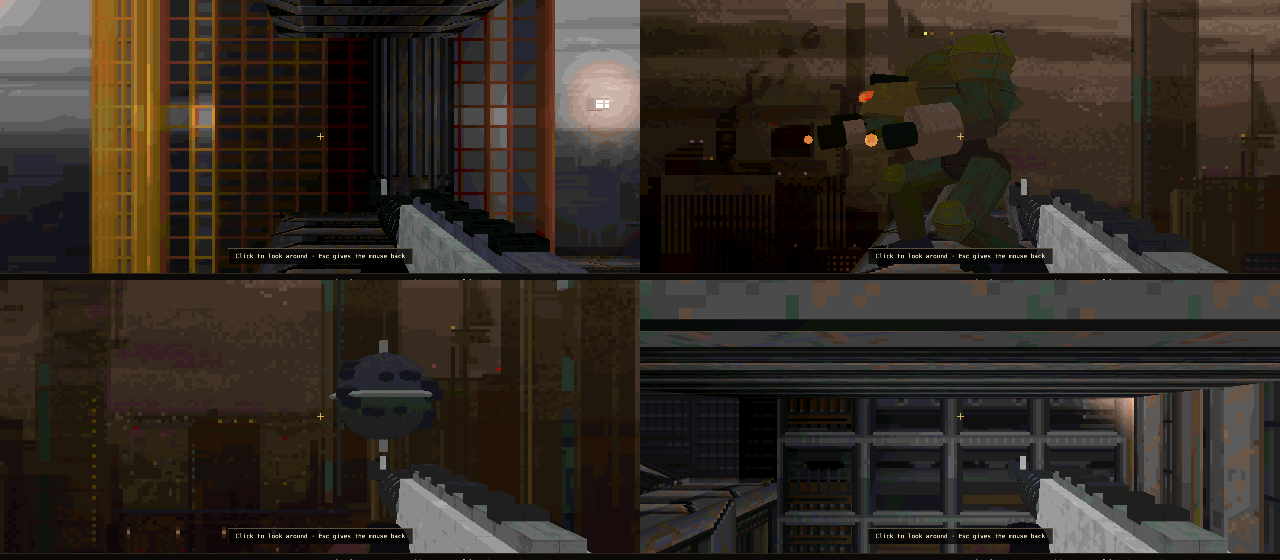
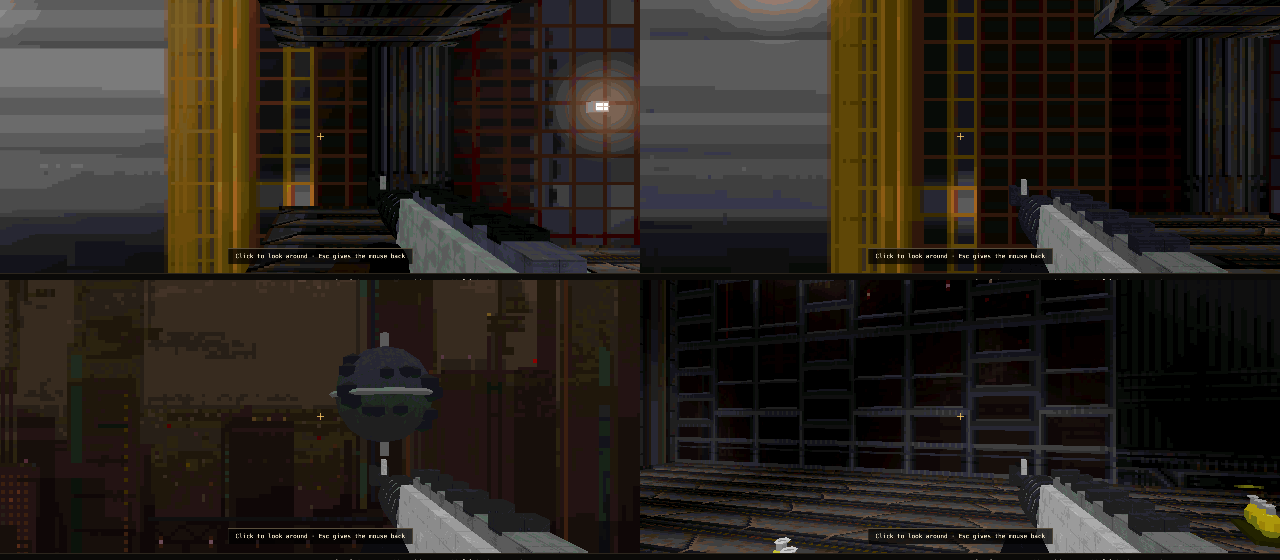
Windows: the city outside is far away, each window anchored on the art Abuse paints behind it

diff --git a/engine/render.js b/engine/render.js
@@ -22,6 +22,7 @@ import { metalSkin, organicSkin, muscleSkin, DETAIL_SIZE } from './detail.js';
 const BLOCK = 1024; // lightmap atlas size, in luxels
 const MAX_LIGHTS = 256;
 const MAX_DYN = 16;
+const BACKDROP_FAR = 10; // the city outside the windows is at least this many lane half-depths behind the middle of the hall
 
 // Abuse's light at level pixel p (lighting.js LightMap.update), 0-63.
 const ABUSE_LIGHT = `
@@ -83,26 +84,33 @@ uniform sampler2D tex; uniform sampler2D lightmap; uniform float brightness; uni
 // 0 elsewhere; bgFace: this face shows the background everywhere (no foreground there), else only where its
 // foreground tile is see-through
 uniform int win; uniform int bgFace; uniform int bgOn;
-uniform highp usampler2D bgMap; uniform sampler2D bgAtlas;
+uniform highp usampler2D bgMap; uniform sampler2D bgAtlas; uniform highp sampler2D bgCells;
 uniform vec4 bgInfo; // map width, height (tiles), tile width, height (pixels)
-uniform vec4 bgRate; // x rate, y rate, the lane's half depth, atlas columns
-uniform vec2 bgShift; // where the 2D view's camera puts the background: (view / 2) * (1 - rate)
-uniform vec2 bgView; uniform vec2 bgWorld; // the 2D view's size, and the foreground's (how far its camera goes), in pixels
+uniform vec4 bgRate; // how far the backdrop is, across and up (times the lane's half depth), the lane's half depth, atlas columns
+uniform vec4 bgCell; // foreground tile width, height; the map's width, height (cells)
+uniform vec2 bgView; // the 2D view's size
 ${ABUSE_LIGHT}
-// What the background shows through point P of a lane wall. Abuse draws it at camera * rate: in 3D that is a
-// plane behind the wall at lane / rate (x and y each their own), seen along the ray from the eye. From the middle
-// of the hall this is exactly the 2D parallax; walking past a window, the city behind it slides by slower.
+// What the background shows through point P of a lane wall (client/backdrop.js has the windows). Each window
+// shows the picture Abuse shows behind it, on a plane far behind the wall (bgRate.xy lane depths from the
+// middle of the hall), seen along the ray from the eye: from the middle, in front of the window, it is Abuse's
+// picture; walking past, it barely slides, as a far city does. The view stays in the art Abuse ever shows
+// behind that window: mirrored at its sides, and its top and bottom rows drawn on (sky and ground run on).
+vec2 mirrored(vec2 v, vec2 lo, vec2 hi) {
+  float n = max(hi.x - lo.x, 1.0), m = mod(v.x - lo.x, 2.0 * n);
+  return vec2(lo.x + min(m, 2.0 * n - m - 0.5), clamp(v.y, lo.y, hi.y - 0.5));
+}
 vec3 backdrop(vec3 P) {
-  float wall = float(win) * bgRate.z, dy = P.y - eyePos.y;
-  float tx = (wall / bgRate.x - eyePos.y) / dy, ty = (wall / bgRate.y - eyePos.y) / dy;
-  vec2 q = vec2(eyePos.x + (P.x - eyePos.x) * tx, eyePos.z + (P.z - eyePos.z) * ty);
-  vec2 px = vec2(q.x * 0.5 * bgRate.x, -q.y * 0.5 * bgRate.y) + bgShift;
-  // Abuse paints only what its camera can show behind each window (on the city levels the rest of the map is
-  // black). A window seen at a slant, or from close to, would look further, so it is held to what the 2D game
-  // shows there from any camera that has it on screen: px = cam * rate + (p - cam), for cam from lo to hi.
   vec2 p = vec2(P.x, -P.z) * 0.5;
-  vec2 lo = max(vec2(0.0), p - bgView), hi = max(lo, min(p, bgWorld - bgView));
-  px = clamp(px, hi * bgRate.xy + p - hi, lo * bgRate.xy + p - lo);
+  ivec2 c = clamp(ivec2(floor(p / bgCell.xy)), ivec2(0), ivec2(bgCell.zw) - 1);
+  vec4 anchor = texelFetch(bgCells, ivec2(c.x * 3, c.y), 0), box = texelFetch(bgCells, ivec2(c.x * 3 + 1, c.y), 0);
+  vec4 ext = texelFetch(bgCells, ivec2(c.x * 3 + 2, c.y), 0);
+  // the eye, as far as the window goes (from further along the hall it would look past the art), and not
+  // closer to the wall than half the lane (close to, a window would show the whole city)
+  vec2 e = clamp(vec2(eyePos.x, -eyePos.z) * 0.5, ext.xy - 0.5 * bgView, ext.zw + 0.5 * bgView);
+  float lane = bgRate.z, d = max(float(win) * (float(win) * lane - eyePos.y), 0.5 * lane);
+  vec2 t = (d + (bgRate.xy - 1.0) * lane) / d;
+  vec2 q = e + (p - e) * t;
+  vec2 px = mirrored(anchor.zw + (q - anchor.xy) / bgRate.xy, box.xy, box.zw);
   vec2 tile = bgInfo.zw;
   ivec2 cell = ivec2(mod(floor(px / tile), bgInfo.xy)); // the map repeats, as Abuse's does
   int slot = int(texelFetch(bgMap, cell, 0).r), cols = int(bgRate.w);
@@ -113,7 +121,15 @@ out vec4 color;
 void main() {
   vec4 texel = texture(tex, vUv);
   vec3 albedo = texel.rgb;
-  if (win != 0 && bgOn == 1 && (bgFace == 1 || texel.a < 0.5)) albedo = backdrop(vPos);
+  if (win != 0 && bgOn == 1 && (bgFace == 1 || texel.a < 0.5)) {
+    // far outside: lit as Abuse lights its background (its own lamps), not by the hall's flashes, and hazed
+    vec3 c = backdrop(vPos);
+    if (mode == 1) c = abuseLit(c, vec2(vPos.x / 2.0, -vPos.z / 2.0)); else c *= 0.85;
+    c = mix(c * brightness, haze.rgb, 0.22);
+    c.r = min(1.0, c.r + red);
+    color = vec4(c, 1.0);
+    return;
+  }
   vec3 c = albedo;
   if (mode == 0) c *= texture(lightmap, vLuv).r;
   else if (mode == 1) c = abuseLit(c, vec2(vPos.x / 2.0, -vPos.z / 2.0));
@@ -227,7 +243,7 @@ export function paletteLut(pal) {
 export class Renderer {
   constructor(gl) {
     this.gl = gl;
-    this.world = program(gl, WORLD_VS, WORLD_FS, ['mvp', 'tex', 'lightmap', 'brightness', 'mode', 'red', 'lights', 'nLights', 'ambient', 'win', 'bgFace', 'bgOn', 'bgMap', 'bgAtlas', 'bgInfo', 'bgRate', 'bgShift', 'bgView', 'bgWorld']);
+    this.world = program(gl, WORLD_VS, WORLD_FS, ['mvp', 'tex', 'lightmap', 'brightness', 'mode', 'red', 'lights', 'nLights', 'ambient', 'win', 'bgFace', 'bgOn', 'bgMap', 'bgAtlas', 'bgInfo', 'bgRate', 'bgCells', 'bgCell', 'bgView']);
     const atmo = ['dynPos', 'dynCol', 'nDyn', 'eyePos', 'haze'];
     this.world.u = { ...this.world.u, ...uniforms(gl, this.world.prog, atmo) };
     this.model = program(gl, MODEL_VS, MODEL_FS, ['mvp', 'basis', 'offset', 'brightness', 'mode', 'bright', 'red', 'lights', 'nLights', 'ambient', 'glow', 'glowAmt', 'skin', 'skin2', 'skin3', 'skinKind', 'skinAmt', 'skinScale', ...atmo]);
@@ -433,9 +449,9 @@ export class Renderer {
 
   // The level's background (Abuse's parallax layer), seen through the windows of the lane walls:
   // { w, h, map (tile numbers, w x h), tile (n -> {w, h, pix} in the palette), rate: {xmul, xdiv, ymul, ydiv}, view: [w, h],
-  //   world: the foreground's size in pixels [w, h] (how far the 2D camera goes) }
+  //   cells: client/backdrop.js windowCells (where each window looks out) }
   setBackdrop(bg) {
-    if (this.backdrop) { this.gl.deleteTexture(this.backdrop.map); this.gl.deleteTexture(this.backdrop.atlas); }
+    if (this.backdrop) { this.gl.deleteTexture(this.backdrop.map); this.gl.deleteTexture(this.backdrop.atlas); this.gl.deleteTexture(this.backdrop.cells); }
     this.backdrop = bg && bg.w && bg.h ? this.makeBackdrop(bg) : null;
   }
   makeBackdrop(bg) {
@@ -456,11 +472,14 @@ export class Renderer {
     gl.pixelStorei(gl.UNPACK_ALIGNMENT, 1);
     const map = make(() => gl.texImage2D(gl.TEXTURE_2D, 0, gl.R16UI, bg.w, bg.h, 0, gl.RED_INTEGER, gl.UNSIGNED_SHORT, Uint16Array.from(bg.map, (n) => slot.get(n))));
     const atl = make(() => gl.texImage2D(gl.TEXTURE_2D, 0, gl.RGBA, W, rows * th, 0, gl.RGBA, gl.UNSIGNED_BYTE, atlas));
-    const rx = bg.rate.xmul / (bg.rate.xdiv || 1), ry = bg.rate.ymul / (bg.rate.ydiv || 1);
+    const cl = bg.cells || { w: 3, h: 1, data: new Float32Array(12), tile: [1, 1] };
+    const cells = make(() => gl.texImage2D(gl.TEXTURE_2D, 0, gl.RGBA32F, cl.w, cl.h, 0, gl.RGBA, gl.FLOAT, cl.data));
+    // how far behind the hall the city is, in lane depths: Abuse's own depth (1 / rate), and never nearer than
+    // BACKDROP_FAR (at Abuse's 5/8, and 1:1 up and down, it sat just behind the glass)
+    const rx = bg.rate.xmul / (bg.rate.xdiv || 1), ry = bg.rate.ymul / (bg.rate.ydiv || 1), far = (r) => Math.max(BACKDROP_FAR, 1 / Math.max(0.01, r));
     return {
-      map, atlas: atl, info: [bg.w, bg.h, tw, th], rate: [Math.max(0.05, rx), Math.max(0.05, ry), this.lane, cols],
-      shift: [(bg.view[0] / 2) * (1 - rx), (bg.view[1] / 2) * (1 - ry)],
-      view: bg.view, world: bg.world || [1e6, 1e6],
+      map, atlas: atl, cells, info: [bg.w, bg.h, tw, th], rate: [far(rx), far(ry), this.lane, cols],
+      cell: [cl.tile[0], cl.tile[1], cl.w / 3, cl.h], view: bg.view,
     };
   }
 
@@ -574,11 +593,12 @@ export class Renderer {
     this.backdropStandIn ??= this.makeBackdrop({ w: 1, h: 1, map: [0], tile: () => ({ w: 1, h: 1, pix: [0] }), rate: { xmul: 1, xdiv: 1, ymul: 1, ydiv: 1 }, view: [0, 0] });
     const bd = this.backdrop || this.backdropStandIn;
     gl.uniform1i(this.world.u.bgOn, this.backdrop ? 1 : 0);
-    gl.uniform1i(this.world.u.bgMap, 6); gl.uniform1i(this.world.u.bgAtlas, 7);
+    gl.uniform1i(this.world.u.bgMap, 6); gl.uniform1i(this.world.u.bgAtlas, 7); gl.uniform1i(this.world.u.bgCells, 8);
     gl.activeTexture(gl.TEXTURE6); gl.bindTexture(gl.TEXTURE_2D, bd.map);
     gl.activeTexture(gl.TEXTURE7); gl.bindTexture(gl.TEXTURE_2D, bd.atlas);
+    gl.activeTexture(gl.TEXTURE8); gl.bindTexture(gl.TEXTURE_2D, bd.cells);
     gl.activeTexture(gl.TEXTURE0);
-    gl.uniform4fv(this.world.u.bgInfo, bd.info); gl.uniform4fv(this.world.u.bgRate, bd.rate); gl.uniform2fv(this.world.u.bgShift, bd.shift); gl.uniform2fv(this.world.u.bgView, bd.view); gl.uniform2fv(this.world.u.bgWorld, bd.world);
+    gl.uniform4fv(this.world.u.bgInfo, bd.info); gl.uniform4fv(this.world.u.bgRate, bd.rate); gl.uniform4fv(this.world.u.bgCell, bd.cell); gl.uniform2fv(this.world.u.bgView, bd.view);
     gl.bindVertexArray(this.worldVao);
     for (const g of world ? this.groups : []) {
       if ((g.kind === 'front' && !front) || (g.kind === 'caps' && !caps)) continue;

diff --git a/client/backdrop.js b/client/backdrop.js
@@ -1,0 +1,99 @@
+// Where each window looks out (presentation only).
+//
+// Abuse paints its background only where its camera shows it behind a window: on many levels small patches
+// shaped to the windows, the rest of the map black. Scrolled at the level's rate (often 5/8 across and 1:1 up
+// and down) that background sits just behind the wall; in 3D it read as painted on the glass. So each window
+// is given a far backdrop of its own: the see-through cells that show art are grouped into windows (cells within REACH of each other),
+// and each window is anchored where Abuse shows it, at its centre. The renderer puts that picture on a plane far
+// behind the wall, seen along the ray from the eye, and keeps the view inside the art Abuse ever shows behind
+// that window (mirrored at its edges).
+//
+// Per foreground cell, three RGBA float texels in a row (cell x * 3 + k):
+//   0: the window's centre in 2D pixels (x, y), and the background pixel Abuse shows there (x, y)
+//   1: the box of background pixels Abuse ever shows behind the window, out to where its art ends: x0, y0, x1, y1
+//   2: the window's extent in 2D pixels: x0, y0, x1, y1
+const REACH = 3; // cells
+
+export function windowCells({ fgW, fgH, fgmap, bgW, bgH, bgmap, rate, tile, back, fore, palette, view = [320, 200] }) {
+  const [tw, th] = tile, [bw, bh] = back.size, rx = rate.xmul / (rate.xdiv || 1), ry = rate.ymul / (rate.ydiv || 1);
+  const world = [fgW * tw, fgH * th], r = [rx, ry];
+  const cam = (p, k) => Math.max(0, Math.min(p - view[k] / 2, world[k] - view[k]));
+  const shown = (p, k) => { const c = cam(p, k); return r[k] * c + (p - c); }; // what Abuse shows behind 2D pixel p
+  const bgPix = (x, y) => {
+    x = Math.floor(x); y = Math.floor(y);
+    const t = back.tile(bgmap[((Math.floor(y / bh) % bgH + bgH) % bgH) * bgW + ((Math.floor(x / bw) % bgW) + bgW) % bgW]);
+    if (!t) return 0;
+    const i = t.pix[(((y % bh) + bh) % bh) * t.w + (((x % bw) + bw) % bw)];
+    return palette[i * 4] + palette[i * 4 + 1] + palette[i * 4 + 2];
+  };
+  // see-through cells: no foreground, or a foreground tile with see-through pixels
+  const clear = new Map();
+  const seeThrough = (n) => {
+    if (!clear.has(n)) { const t = fore(n); clear.set(n, !t || t.pix.some((v) => v === 0)); }
+    return clear.get(n);
+  };
+  const N = fgW * fgH, win = new Uint8Array(N);
+  for (let y = 0; y < fgH; y++) for (let x = 0; x < fgW; x++) {
+    const i = y * fgW + x;
+    if (!seeThrough(fgmap[i])) continue;
+    let art = 0; // does Abuse show anything but black behind it?
+    for (let sy = 0; sy < 3; sy++) for (let sx = 0; sx < 3; sx++) {
+      const px = x * tw + (sx + 0.5) * tw / 3, py = y * th + (sy + 0.5) * th / 3;
+      if (bgPix(shown(px, 0), shown(py, 1)) > 30) art++;
+    }
+    win[i] = art ? 1 : 0;
+  }
+  // the box of background Abuse ever shows behind a cell: every camera that has it on screen
+  const range = (a0, a1, k) => {
+    const lo = Math.max(0, Math.min(a0 - view[k], world[k] - view[k])), hi = Math.max(lo, Math.min(a1, world[k] - view[k]));
+    return [r[k] * hi + a0 - hi, r[k] * lo + a1 - lo];
+  };
+  // the art often goes on past what the camera shows: take the box out to where it turns black
+  const artShare = (x0, y0, x1, y1) => {
+    let n = 0, a = 0;
+    for (let y = y0; y < y1; y += 3) for (let x = x0; x < x1; x += 3) { n++; if (bgPix(x, y) > 30) a++; }
+    return n ? a / n : 0;
+  };
+  const grow = (b) => {
+    const S = 6, LIMIT = 400;
+    for (let k = 0; k < LIMIT && artShare(b[0] - S, b[1], b[0], b[3]) > 0.9; k += S) b[0] -= S;
+    for (let k = 0; k < LIMIT && artShare(b[2], b[1], b[2] + S, b[3]) > 0.9; k += S) b[2] += S;
+    for (let k = 0; k < LIMIT && artShare(b[0], b[1] - S, b[2], b[1]) > 0.9; k += S) b[1] -= S;
+    for (let k = 0; k < LIMIT && artShare(b[0], b[3], b[2], b[3] + S) > 0.9; k += S) b[3] += S;
+  };
+  const out = new Float32Array(fgW * 3 * fgH * 4);
+  const put = (i, ext, box) => {
+    const x = i % fgW, y = Math.floor(i / fgW), o = (y * fgW * 3 + x * 3) * 4;
+    const cx = (ext[0] + ext[2]) / 2, cy = (ext[1] + ext[3]) / 2;
+    out.set([cx, cy, shown(cx, 0), shown(cy, 1)], o);
+    out.set(box, o + 4);
+    out.set(ext, o + 8);
+  };
+  const comp = new Int32Array(N).fill(-1);
+  for (let s = 0; s < N; s++) {
+    const x0 = s % fgW, y0 = Math.floor(s / fgW);
+    if (!win[s]) { // not a window onto art: its own cell
+      const ext = [x0 * tw, y0 * th, (x0 + 1) * tw, (y0 + 1) * th], [a, b] = range(ext[0], ext[2], 0), [c, d] = range(ext[1], ext[3], 1);
+      put(s, ext, [a, c, b, d]);
+      continue;
+    }
+    if (comp[s] >= 0) continue;
+    const cells = [s], ext = [Infinity, Infinity, -Infinity, -Infinity], box = [Infinity, Infinity, -Infinity, -Infinity];
+    comp[s] = s;
+    for (let k = 0; k < cells.length; k++) {
+      const i = cells[k], x = i % fgW, y = Math.floor(i / fgW);
+      ext[0] = Math.min(ext[0], x * tw); ext[1] = Math.min(ext[1], y * th); ext[2] = Math.max(ext[2], (x + 1) * tw); ext[3] = Math.max(ext[3], (y + 1) * th);
+      const [a, b] = range(x * tw, (x + 1) * tw, 0), [c, d] = range(y * th, (y + 1) * th, 1);
+      box[0] = Math.min(box[0], a); box[1] = Math.min(box[1], c); box[2] = Math.max(box[2], b); box[3] = Math.max(box[3], d);
+      // panes either side of a pillar or a mullion look onto the same sky: one window
+      for (let ny = y - REACH; ny <= y + REACH; ny++) for (let nx = x - REACH; nx <= x + REACH; nx++) {
+        if (nx < 0 || ny < 0 || nx >= fgW || ny >= fgH) continue;
+        const j = ny * fgW + nx;
+        if (win[j] && comp[j] < 0) { comp[j] = s; cells.push(j); }
+      }
+    }
+    grow(box);
+    for (const i of cells) put(i, ext, box);
+  }
+  return { w: fgW * 3, h: fgH, data: out, tile: [tw, th] };
+}

diff --git a/client/play.js b/client/play.js
@@ -25,6 +25,7 @@
 //   ?solo=1             with ?look: draw only that object, on black (for checking models)
 //   ?look=TYPE&ang=deg&dist=units&n=k   model review: the eye `dist` units from the k-th object of that
 //                       type, `ang` degrees round from straight in front, looking at it (use with ?still=0)
+import { windowCells } from './backdrop.js';
 import { loadBSP } from '../engine/bsp.js';
 import { Renderer } from '../engine/render.js';
 import { createGame, levelFile, aimAt, STEP } from './sim-host.js';
@@ -91,7 +92,11 @@ g.nextLevel = (n) => { finished = n; g.transitioning = true; if (!watch) { passe
 g.onEndGame = () => { finished = 'end'; if (!watch) { passed.add(level); savePassed(passed); fillLevels(); } };
 await g.start(levelFile(level));
 // the level's background, seen out of the windows (Abuse's parallax layer, at its own scroll rate)
-renderer.setBackdrop({ w: g.level.bgW, h: g.level.bgH, map: g.level.bgmap, tile: (n) => g.assets.backTile(n), rate: g.level.bgRate, view: [320, 200], world: [g.level.fgW * g.tw, g.level.fgH * g.th] });
+{
+  const lv = g.level, back = { size: [g.bw, g.bh], tile: (n) => g.assets.backTile(n) };
+  const cells = windowCells({ ...lv, rate: lv.bgRate, tile: [g.tw, g.th], back, fore: (n) => g.assets.foreTile(n), palette: g.assets.palette });
+  renderer.setBackdrop({ w: lv.bgW, h: lv.bgH, map: lv.bgmap, tile: back.tile, rate: lv.bgRate, view: [320, 200], cells });
+}
 g.freshRun();
 const statbar = await createStatbar(g, document.getElementById('statbar'));
 const LANE = Number(world.entities[0]._abuse_lane || 160);

diff --git a/README.md b/README.md
@@ -332,13 +332,13 @@ and leaving smoke, spreading rings and white-blue flashes, all glowing additivel
 cloudy sky) behind its foreground, scrolled at a fraction of the camera's speed (the level's
 `bg_scroll_rate`), so through every window and see-through grille the city strobes past as the player runs.
 In 3D the lane walls are windows wherever Abuse would show the background: cells with no foreground, and the
-see-through pixels of foreground tiles. Through them the renderer shows the background on a plane behind the
-wall at lane / rate (across and up each at their own rate), seen along the ray from the eye: from the middle of
-the hall that is exactly the 2D parallax, and walking past a window the skyline slides by slower than the wall,
-as it does in Abuse. Abuse paints only what its camera can show behind each window (on the city levels, 1, 12
-and 16, the rest of the map is black), so a window seen at a slant or from close to is held to what the 2D game
-shows behind it from any camera that has it on screen; without that, the far panes showed gaps of black
-(`engine/render.js` `backdrop`, `setBackdrop`; docs/windows.png).
+see-through pixels of foreground tiles. Abuse paints its background only where its camera shows it behind a
+window (on many levels small patches shaped to the windows, the rest of the map black), so the see-through
+cells that show art are grouped into windows (`client/backdrop.js`; panes either side of a pillar are one
+window), and each window looks out on the picture Abuse shows behind it, on a far plane seen along the ray
+from the eye (see Jared rules: the city outside is far away). The view stays inside the art Abuse shows
+behind that window: mirrored at its sides, its top and bottom rows drawn on (`engine/render.js` `backdrop`;
+docs/windows.png).
 
 **Rule: things keep their own size.** Doors, lifts and trap doors no longer span the hall. Each sits in a
 doorway, shaft or hole its own size, and *frame* walls close the rest of the hall. The depth layer
@@ -647,3 +647,9 @@ apply here too and are listed in WEaBuse's README.
   (up to 90 units either side, narrowing to the player's depth within 110 px), and keeps enemies near each
   other apart across the hall, so a pack does not come in single file. Jared: "the creatures also tend to
   spawn in a straight line ... they should be spaced out more".
+- **The city outside is far away.** Abuse scrolls its background at the level's rate, often 5/8 across and
+  1:1 up and down, which in 3D put the city just behind the glass and fixed it to the wall when jumping. Each
+  window now looks out on a plane at least 10 lane depths behind the hall (Abuse's own depth, 1 / rate, where
+  that is further), anchored on the picture Abuse shows behind that window, so the city barely slides as you
+  pass. It is lit by Abuse's own lamps but not by the hall's flashes, and hazed. Jared: "the images in the
+  window appear too near ... takes away from the atmosphere".

diff --git a/LOOP_LOG.md b/LOOP_LOG.md
@@ -384,3 +384,18 @@ foreground, fixed to the wall (no parallax), and see-through foreground pixels d
   screen (px = cam * rate + p - cam, cam clamped to the level). Front-on views are unchanged; the 3D depth stays
   wherever it fits. Checked against a 2D render of the same spot: level 1's lower panes now show the city
   instead of black. Levels 2, 4 and 16 unchanged front-on, no black at a slant. 67/67 tests.
+
+## The city outside is far away (2026-11-06)
+- Jared: "the images in the window appear too near at least when i tested level 002 ... takes away from the
+  atmosphere".
+- Cause: level 2 scrolls its background at 5/8 across and 1:1 up and down, so the plane sat 96 units behind
+  the glass, and fixed to the wall vertically; it was also lit by the hall's lamp pools and gunfire.
+- Its art is small patches shaped to the windows, so one far plane for the level would look into black. New
+  client/backdrop.js groups the see-through cells that show art into windows (within 3 cells, so panes either
+  side of a pillar share one view), with each window's anchor (what Abuse shows at its centre), the box of art
+  behind it (grown to where the art ends) and its extent. The shader puts each window's picture on a plane at
+  max(10, 1/rate) lane depths, mirrors sideways and draws the top and bottom rows on, keeps the eye within
+  half a screen of the window and no closer than half the lane. Lit by Abuse's lamps only, hazed.
+- Screenshots: level 2 from 60 px apart: the wall moves ~170 px on screen, the tower behind ~20. Levels 1 and
+  16 still show their cities. tests/backdrop.test.mjs (anchors on art and in their box; the pillar case).
+  71/71 tests.
